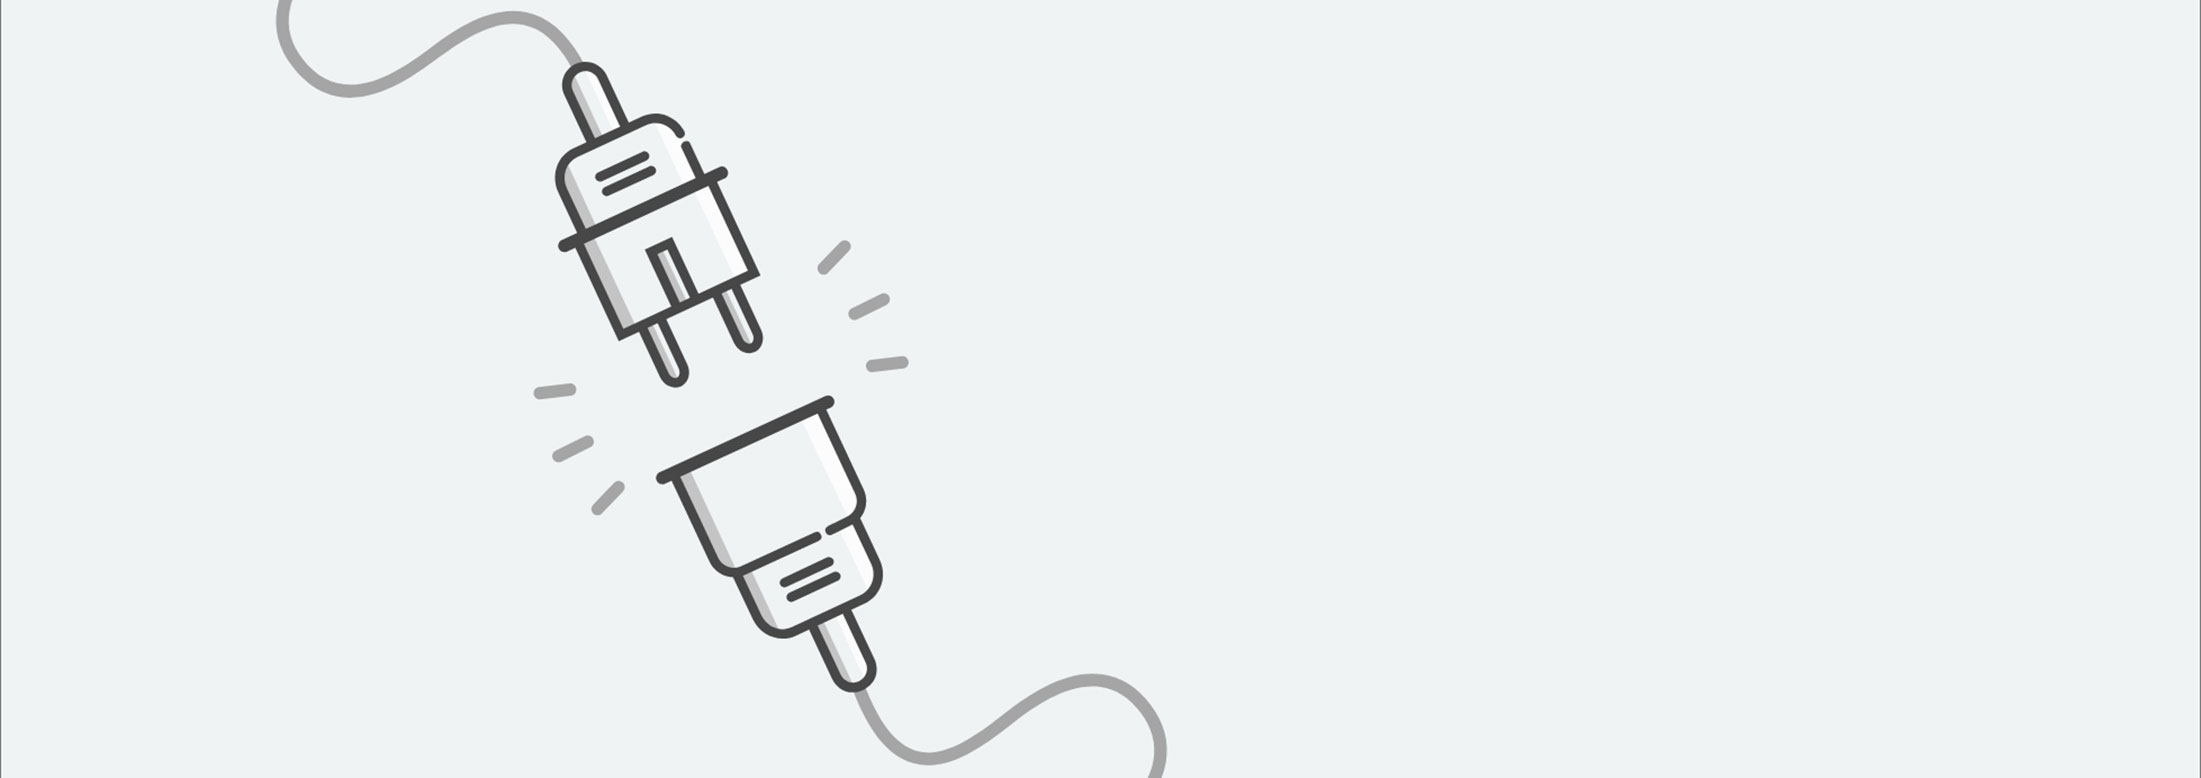
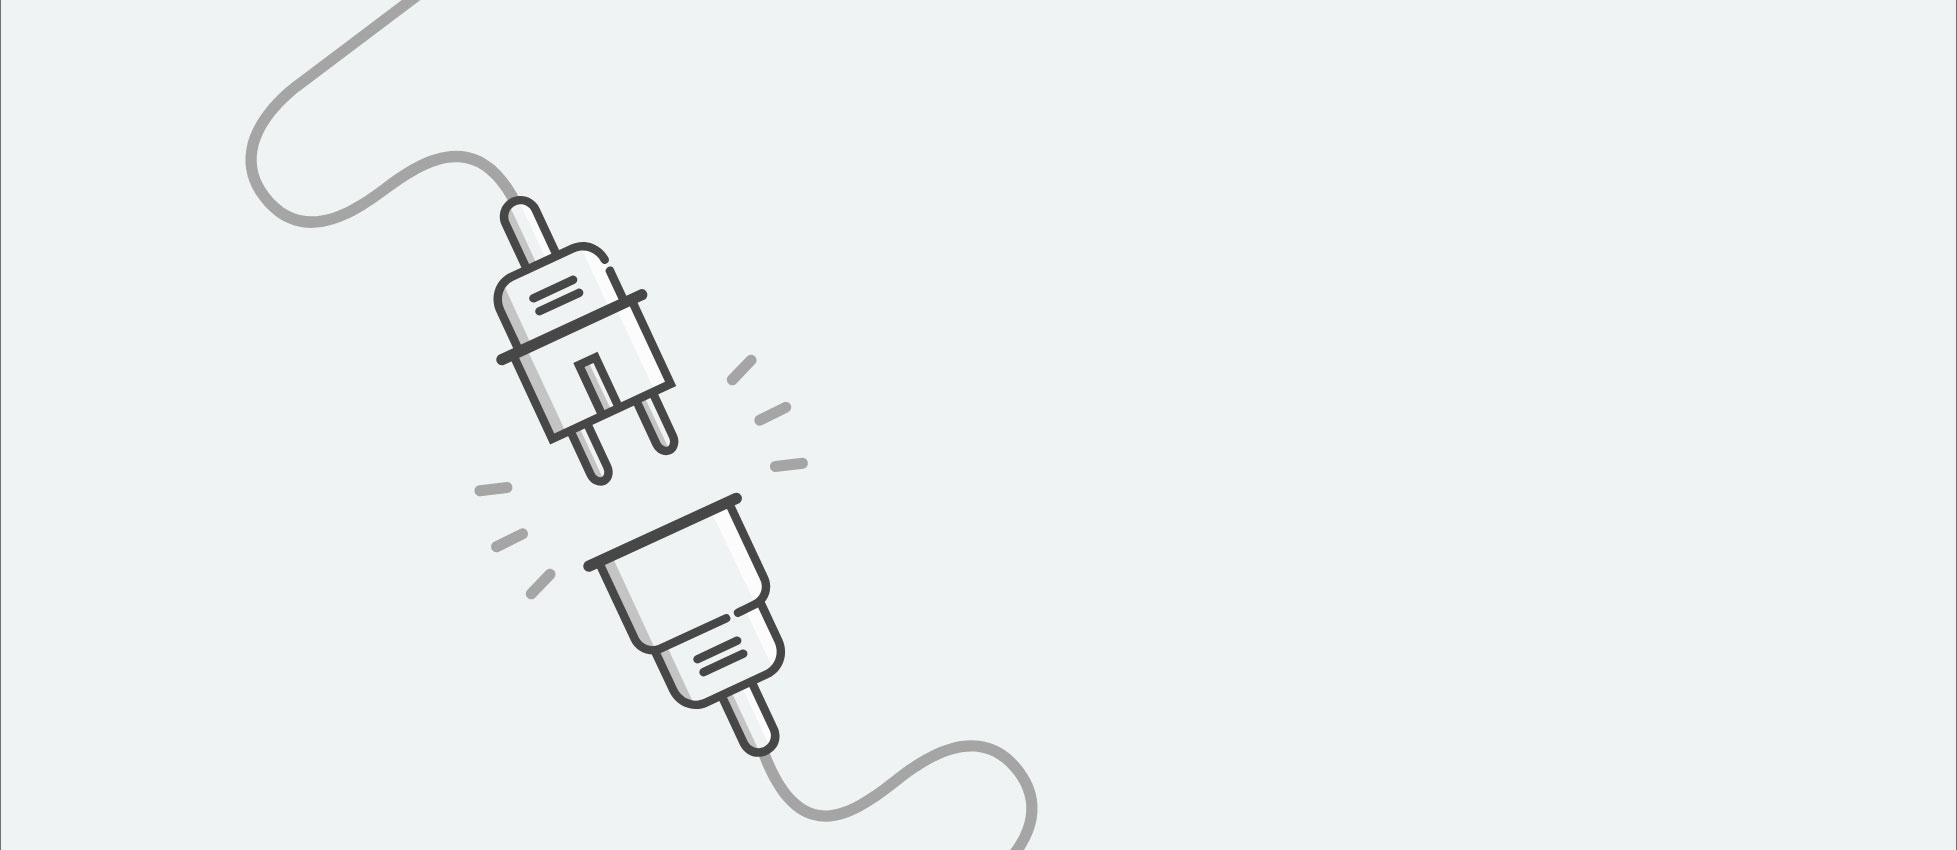
500 Page setup with text and background image. Adjusts to all media queries.

diff --git a/src/pages/500.js b/src/pages/500.js
@@ -4,7 +4,6 @@ import { graphql, Link } from "gatsby"
 import DefaultPageLayout from "../components/DefaultPageLayout"
 import Main from "../components/main-content"
 import Container from "../components/Container"
-import Error500 from "../img/500.png"
 
 import "../styles/500.scss"
 
@@ -33,32 +32,23 @@ class DG500Page extends React.Component {
     return (
       <div>
         {pagePaths.length > 0 && (
-          <DefaultPageLayout location={this.props["*"]}>
+          <DefaultPageLayout location="the-study-post">
             <div className={`${this.props["*"]} page-500`}>
               <div className="hero">
                 {/* Hero will be a layout component */}
 
                 <Container>
                   <div className="valign-wrapper row">
-                    <div className="col-sm-12 col-md-6 offset-md-3">
+                    <div className="col-sm-12 col-md-12 col-lg-6 offset-lg-3">
                       <div>
                         <div className="row">
-                          <div className="col-sm-12.col-md-8.offset-md-2">
-                            <img
-                              className="error-500"
-                              src={Error500}
-                              alt="Error 500"
-                            />
-                          </div>
-                        </div>
-                        <div>
-                          <h2>
-                            <span>Something</span> Went Wrong
-                          </h2>
-                          <div className="accented-paragraph">
-                            <p>
-                              The server is currently unable to handle this
-                              request.
+                          <div className="col-sm-12 col-md-12 col-lg-12">
+                            <h1 className="text-center">500</h1>
+                            <h2 className="text-center">OOPS! INTERNAL SERVICE ERROR</h2>
+                            <p className="text-center accented-paragraph">The page you are looking for might have been removed had its changed or is temporarily unavailable. &nbsp;
+                            <Link to="/">
+                              Return to homepage
+                            </Link>
                             </p>
                           </div>
                         </div>

diff --git a/src/styles/500.scss b/src/styles/500.scss
@@ -3,15 +3,46 @@
 .page-500 {
   .hero {
     background-image: url("/hero/500-error.jpg");
+    height:100vh;
   }
 
   .hero h1 {
       color: #0086d6;
-      font-size: 5rem;
-      font-family: 'Numans', 'agenda', 'sans-serif';
+      font-size: 12em;
+      font-family: 'Montserrat', 'sans-serif';
   }
+
+  .hero h2 {
+    color: #5b5b5b;
+    font-size: 1.6em;
+    font-family: 'Montserrat', 'sans-serif';
+}
 
   .single-top-line {
     margin-bottom: 25px;
   } 
+
+  @media only screen and (max-width: 1024px) {
+    .hero {
+      background-image: url("/hero/500-error-tablet.jpg");
+      height:100vh;
+    }
+  }
+  @media only screen and (min-width:992px) and (max-width: 1024px) {
+    .hero {
+      background-position: 0% 32%;
+    }
+  }
+  @media only screen and (min-width:1025px) and (max-width: 1299px) {
+    .hero {
+      background-image: none;
+      background-color: #f0f3f4; 
+      height:100vh;
+    }
+  }
+  @media only screen and (max-width:425px){
+    .hero h1 {
+      font-size: 9em;
+    }
+  }
 }
